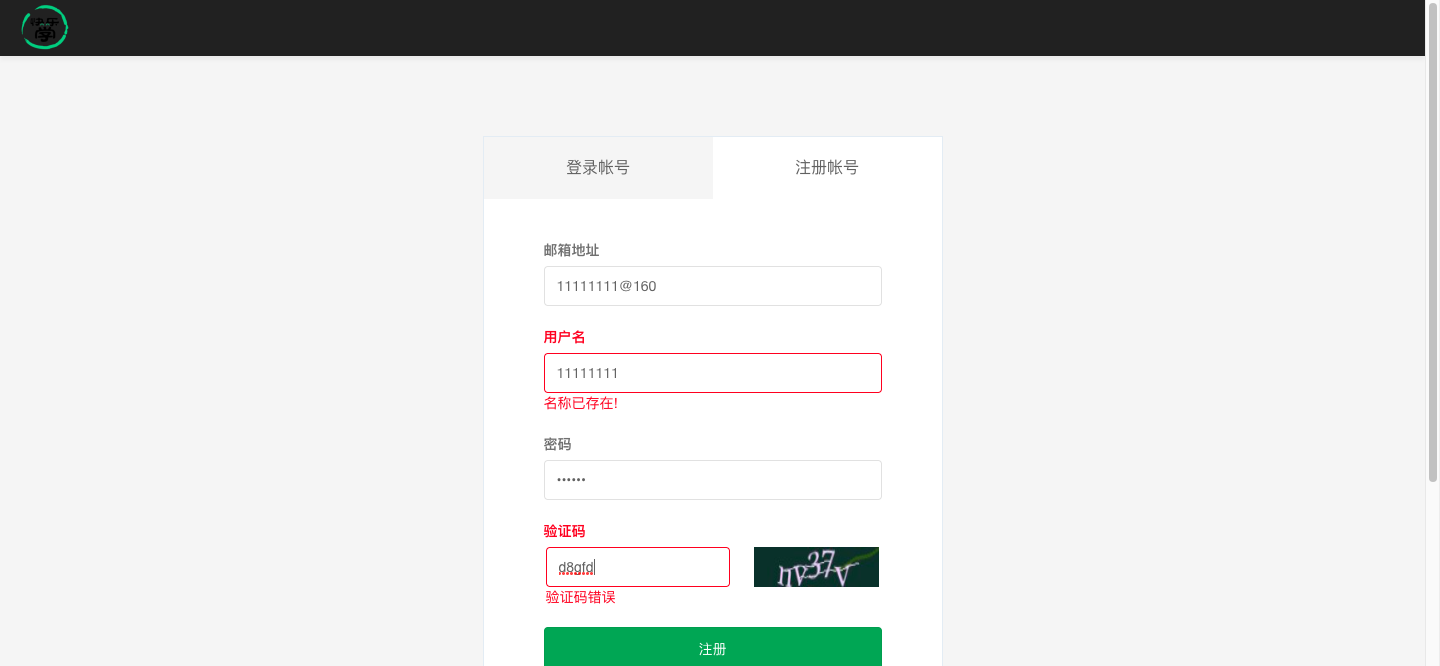
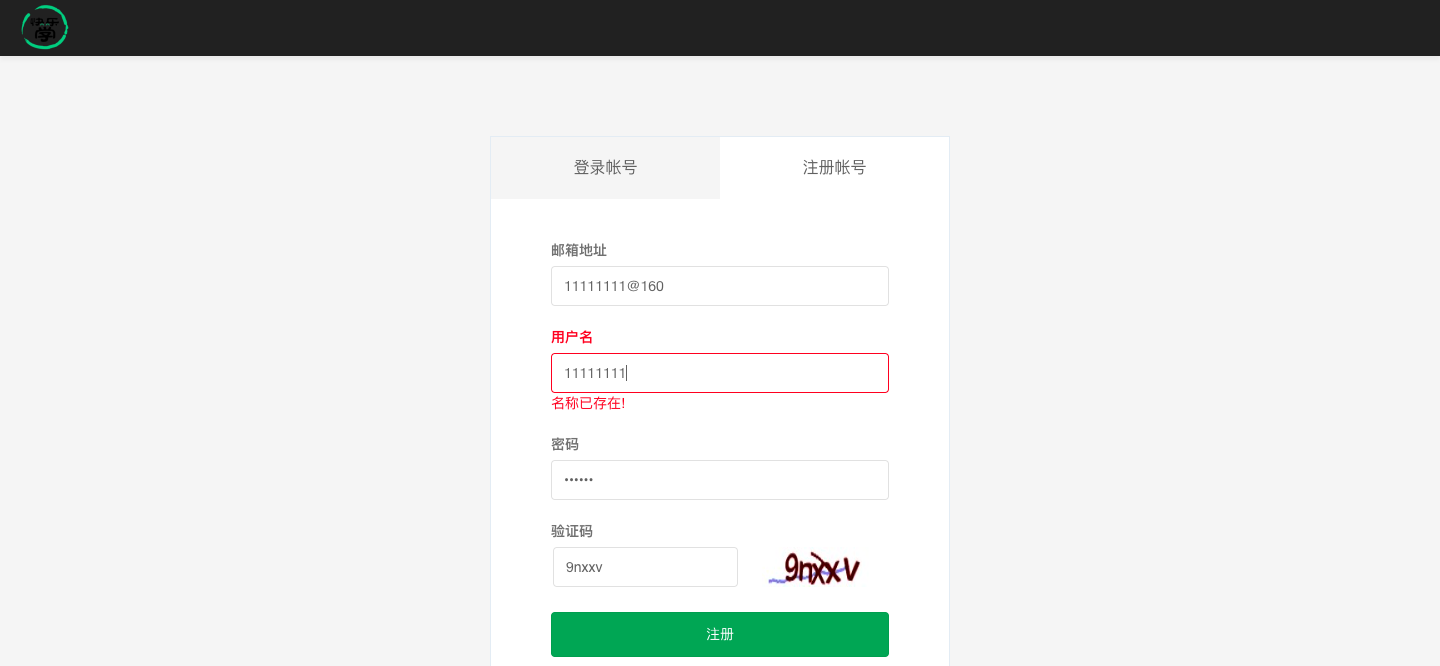
update

diff --git a/report/first_report.html b/report/first_report.html
@@ -189,9 +189,9 @@ function showOutput(id, name) {
 
 <div class='heading'>
 <h1>Test Cases Report</h1>
-<p class='attribute'><strong>Start Time:</strong> 2022-10-10 23:08:34</p>
-<p class='attribute'><strong>Duration:</strong> 0:01:24.808446</p>
-<p class='attribute'><strong>Status:</strong> Pass 2 Failure 3</p>
+<p class='attribute'><strong>Start Time:</strong> 2022-10-11 01:15:12</p>
+<p class='attribute'><strong>Duration:</strong> 0:01:29.458768</p>
+<p class='attribute'><strong>Status:</strong> Pass 1 Failure 3 Error 1</p>
 
 <p class='description'>第一次测试报告</p>
 </div>
@@ -221,12 +221,12 @@ function showOutput(id, name) {
     <td>View</td>
 </tr>
 
-<tr class='failClass'>
+<tr class='errorClass'>
     <td>Case1</td>
     <td>5</td>
-    <td>2</td>
+    <td>1</td>
     <td>3</td>
-    <td>0</td>
+    <td>1</td>
     <td><a href="javascript:showClassDetail('c1',5)">Detail</a></td>
 </tr>
 
@@ -246,11 +246,11 @@ function showOutput(id, name) {
         <pre>
         
 ft1.1: Traceback (most recent call last):
-  File "/Users/air/PycharmProjects/Web_register_test/test_cases/case1.py", line 32, in test_register_email_error
+  File "/Users/air/PycharmProjects/Web_register_test/test_cases/case1.py", line 36, in test_register_email_error
     self.assertFalse(email_error, 'case ran')
 AssertionError: True is not false : case ran
 Traceback (most recent call last):
-  File "/Users/air/PycharmProjects/Web_register_test/test_cases/case1.py", line 32, in test_register_email_error
+  File "/Users/air/PycharmProjects/Web_register_test/test_cases/case1.py", line 36, in test_register_email_error
     self.assertFalse(email_error, 'case ran')
 AssertionError: True is not false : case ran
 
@@ -278,11 +278,11 @@ AssertionError: True is not false : case ran
         <pre>
         
 ft1.2: Traceback (most recent call last):
-  File "/Users/air/PycharmProjects/Web_register_test/test_cases/case1.py", line 38, in test_register_username_error
+  File "/Users/air/PycharmProjects/Web_register_test/test_cases/case1.py", line 43, in test_register_username_error
     self.assertFalse(username_error)
 AssertionError: True is not false
 Traceback (most recent call last):
-  File "/Users/air/PycharmProjects/Web_register_test/test_cases/case1.py", line 38, in test_register_username_error
+  File "/Users/air/PycharmProjects/Web_register_test/test_cases/case1.py", line 43, in test_register_username_error
     self.assertFalse(username_error)
 AssertionError: True is not false
 
@@ -310,11 +310,11 @@ AssertionError: True is not false
         <pre>
         
 ft1.3: Traceback (most recent call last):
-  File "/Users/air/PycharmProjects/Web_register_test/test_cases/case1.py", line 42, in test_register_password_error
+  File "/Users/air/PycharmProjects/Web_register_test/test_cases/case1.py", line 48, in test_register_password_error
     self.assertFalse(password_error)
 AssertionError: True is not false
 Traceback (most recent call last):
-  File "/Users/air/PycharmProjects/Web_register_test/test_cases/case1.py", line 42, in test_register_password_error
+  File "/Users/air/PycharmProjects/Web_register_test/test_cases/case1.py", line 48, in test_register_password_error
     self.assertFalse(password_error)
 AssertionError: True is not false
 
@@ -350,22 +350,38 @@ pt1.4:
     </td>
 </tr>
 
-<tr id='pt1.5' class='hiddenRow'>
-    <td class='none'><div class='testcase'>test_register_pass</div></td>
+<tr id='ft1.5' class='none'>
+    <td class='errorCase'><div class='testcase'>test_register_pass</div></td>
     <td colspan='5' align='center'>
 
     <!--css div popup start-->
-    <a class="popup_link" οnfοcus='this.blur();' href="javascript:showTestDetail('div_pt1.5')" >
-        pass</a>
+    <a class="popup_link" οnfοcus='this.blur();' href="javascript:showTestDetail('div_ft1.5')" >
+        error</a>
 
-    <div id='div_pt1.5' class="popup_window">
+    <div id='div_ft1.5' class="popup_window">
         <div style='text-align: right; color:red;cursor:pointer'>
-        <a οnfοcus='this.blur();' οnclick="document.getElementById('div_pt1.5').style.display = 'none' " >
+        <a οnfοcus='this.blur();' οnclick="document.getElementById('div_ft1.5').style.display = 'none' " >
            [x]</a>
         </div>
         <pre>
         
-pt1.5: 
+ft1.5: Traceback (most recent call last):
+  File "/Users/air/PycharmProjects/Web_register_test/test_cases/case1.py", line 55, in test_register_pass
+    result = self.test_register.register_success("55555555555@160.com", "55555555", "123456", self.image_path)
+  File "/Users/air/PycharmProjects/Web_register_test/register/register_business.py", line 19, in register_success
+    if self.register_handle.get_register_button_text() == None:
+  File "/Users/air/PycharmProjects/Web_register_test/register/register_handle.py", line 52, in get_register_button_text
+    return self.register_page.get_register_button_element().text
+AttributeError: 'NoneType' object has no attribute 'text'
+Traceback (most recent call last):
+  File "/Users/air/PycharmProjects/Web_register_test/test_cases/case1.py", line 55, in test_register_pass
+    result = self.test_register.register_success("55555555555@160.com", "55555555", "123456", self.image_path)
+  File "/Users/air/PycharmProjects/Web_register_test/register/register_business.py", line 19, in register_success
+    if self.register_handle.get_register_button_text() == None:
+  File "/Users/air/PycharmProjects/Web_register_test/register/register_handle.py", line 52, in get_register_button_text
+    return self.register_page.get_register_button_element().text
+AttributeError: 'NoneType' object has no attribute 'text'
+
 
         </pre>
     </div>
@@ -377,9 +393,9 @@ pt1.5:
 <tr id='total_row'>
     <td>Total</td>
     <td>5</td>
-    <td>2</td>
+    <td>1</td>
     <td>3</td>
-    <td>0</td>
+    <td>1</td>
     <td> </td>
 </tr>
 </table>

diff --git a/register/register_business.py b/register/register_business.py
@@ -7,23 +7,23 @@ class RegisterBusiness(object):
         self.register_handle = RegisterHandle(driver)
 
     # 模拟用户操作
-    def register_base(self, email, name, password, code):
+    def register_base(self, email, name, password, image_path):
         self.register_handle.input_user_email(email)
         self.register_handle.input_user_name(name)
         self.register_handle.input_user_password(password)
-        self.register_handle.input_user_code(code)
+        self.register_handle.input_user_code(image_path)
         self.register_handle.click_register_button()
 
-    def register_success(self, email, name, password, code):
-        self.register_base(email, name, password, code)
+    def register_success(self, email, name, password, image_path):
+        self.register_base(email, name, password, image_path)
         if self.register_handle.get_register_button_text() == None:
             return True
         else:
             return False
 
     # 输入邮箱错误
-    def register_email_error(self, email, name, password, code):
-        self.register_base(email, name, password, code)
+    def register_email_error(self, email, name, password, image_path):
+        self.register_base(email, name, password, image_path)
         if self.register_handle.get_register_error_msg('user_email_error_msg', '请输入有效的电子邮件地址') == None:
             print('邮箱检验不成功')
             return True
@@ -31,8 +31,8 @@ class RegisterBusiness(object):
             return False
 
     # 输入用户名错误
-    def register_username_error(self, email, name, password, code):
-        self.register_base(email, name, password, code)
+    def register_username_error(self, email, name, password, image_path):
+        self.register_base(email, name, password, image_path)
         if self.register_handle.get_register_error_msg('user_username_error_msg', '字符长度必须大于等于4，一个中文字算2个字符') == None:
             print('用户名检验不成功')
             return True
@@ -40,8 +40,8 @@ class RegisterBusiness(object):
             return False
 
     # 输入密码错误
-    def register_password_error(self, email, name, password, code):
-        self.register_base(email, name, password, code)
+    def register_password_error(self, email, name, password, image_path):
+        self.register_base(email, name, password, image_path)
         if self.register_handle.get_register_error_msg('user_password_error_msg', '最少需要输入 5 个字符') == None:
             print('密码检验不成功')
             return True
@@ -49,8 +49,8 @@ class RegisterBusiness(object):
             return False
 
     # 输入验证码错误
-    def register_code_error(self, email, name, password, code):
-        self.register_base(email, name, password, code)
+    def register_code_error(self, email, name, password, image_path):
+        self.register_base(email, name, password, image_path)
         if self.register_handle.get_register_error_msg('code_text_error_msg', '必须是英文字母、数字及下划线组成') == None:
             print('验证码检验不成功')
             return True

diff --git a/test_cases/case1.py b/test_cases/case1.py
@@ -1,6 +1,7 @@
 # coding = utf-8
 from register.register_business import RegisterBusiness
 from selenium import webdriver
+# from log.user_log import UserLog
 import unittest
 import os
 import time
@@ -8,6 +9,9 @@ import HTMLTestRunner
 
 
 class Case1(unittest.TestCase):
+    @classmethod
+    def setUpClass(cls):
+        cls.image_path = '/Users/air/PycharmProjects/Web_register_test/Image/test_pic.png'
 
     def setUp(self):
         self.driver = webdriver.Chrome()
@@ -28,26 +32,28 @@ class Case1(unittest.TestCase):
         print('teardown')
 
     def test_register_email_error(self):
-        email_error = self.test_register.register_email_error("11111111@160", "11111111", "123456", "d8gfd")
+        email_error = self.test_register.register_email_error("11111111@160", "11111111", "123456", self.image_path)
         self.assertFalse(email_error, 'case ran')
         # if email_error == True:
         #     print('如注册成功，此case执行失败')
 
     def test_register_username_error(self):
-        username_error = self.test_register.register_username_error("2222222@163.com", "222222222", "123456", "d8gfd")
+        username_error = self.test_register.register_username_error("2222222@163.com", "222222222", "123456",
+                                                                    self.image_path)
         self.assertFalse(username_error)
 
     def test_register_password_error(self):
-        password_error = self.test_register.register_password_error("333333333@160.com", "33333333", "123456", "d8gfd")
+        password_error = self.test_register.register_password_error("333333333@160.com", "33333333", "123456",
+                                                                    self.image_path)
         self.assertFalse(password_error)
 
     def test_register_code_error(self):
-        code_error = self.test_register.register_code_error("44444444@160.com", "4444444444", "123456", "d8gfd")
+        code_error = self.test_register.register_code_error("44444444@160.com", "4444444444", "123456", self.image_path)
         self.assertFalse(code_error)
 
     def test_register_pass(self):
-        result = self.test_register.register_success("55555555555@160.com", "55555555", "123456", "d8gfd")
-        self.assertFalse(result)
+        result = self.test_register.register_success("55555555555@160.com", "55555555", "123456", self.image_path)
+        self.assertTrue(result)
 
 
 if __name__ == '__main__':

diff --git a/util/get_code.py b/util/get_code.py
@@ -1,0 +1,33 @@
+# coding = utf-8
+import ddddocr
+from PIL import Image
+from selenium.webdriver.common.by import By
+from register.register_page import RegisterPage
+
+
+class GetCode:
+    def __init__(self, driver):
+        self.driver = driver
+
+    # 获取验证码图片
+    def get_code_image(self, file_name):
+        pg = RegisterPage(self.driver)
+        self.driver.save_screenshot(file_name)
+        code_element = pg.get_code_image_element()
+        # self.driver.find_element(by=By.ID, value='getcode_num')
+        left = code_element.location['x']  # 以左上角为原点，向右向下延伸的长方形
+        top = code_element.location['y']
+        right = code_element.size['width'] + left
+        bottom = code_element.size['height'] + top
+        image_screenshot = Image.open(file_name)
+        image_cropped = image_screenshot.crop((left, top, right, bottom))
+        image_cropped.save(file_name)
+
+    # 从图片里提取验证码
+    def get_code_from_image(self, file_name):
+        self.get_code_image(file_name)
+        ocr = ddddocr.DdddOcr()
+        with open(file_name, 'rb') as f:
+            img_bytes = f.read()
+        text = ocr.classification(img_bytes)
+        return text

diff --git a/register/register_handle.py b/register/register_handle.py
@@ -1,11 +1,13 @@
 # coding = utf-8
 from register.register_page import RegisterPage
+from util.get_code import GetCode
 
 
 # 通过register_page定位到元素位置，再进行内容输入
 class RegisterHandle(object):
     def __init__(self, driver):
-        self.register_page = RegisterPage(driver)
+        self.driver = driver
+        self.register_page = RegisterPage(self.driver)
 
     # 输入邮箱
     def input_user_email(self, email):
@@ -20,8 +22,10 @@ class RegisterHandle(object):
         self.register_page.get_password_element().send_keys(password)
 
     # 输入验证码
-    def input_user_code(self, code):
-        self.register_page.get_code_element().send_keys(code)
+    def input_user_code(self, image_path):
+        get_code_text = GetCode(self.driver)
+        code = get_code_text.get_code_from_image(image_path)
+        self.register_page.get_code_text_element().send_keys(code)
 
     # 点击注册按钮
     def click_register_button(self):

diff --git a/register/register_page.py b/register/register_page.py
@@ -1,5 +1,4 @@
 # coding = utf-8
-from selenium.webdriver.common.by import By
 from register.find_element import FindElement
 
 
@@ -32,8 +31,12 @@ class RegisterPage(object):
     def get_password_error_msg_element(self):
         return self.fd.get_element("user_password_error_msg")
 
+    # 定位到验证码图片
+    def get_code_image_element(self):
+        return self.fd.get_element("code_image")
+
     # 定位到验证码输入框
-    def get_code_element(self):
+    def get_code_text_element(self):
         return self.fd.get_element("code_text")
 
     # 定位到验证码错误信息

diff --git a/Web_register_test/register_function.py b/Web_register_test/register_function.py
@@ -1,6 +1,5 @@
 # coding = utf-8
 from selenium import webdriver
-from selenium.webdriver.common.by import By
 from PIL import Image
 import time
 import random
